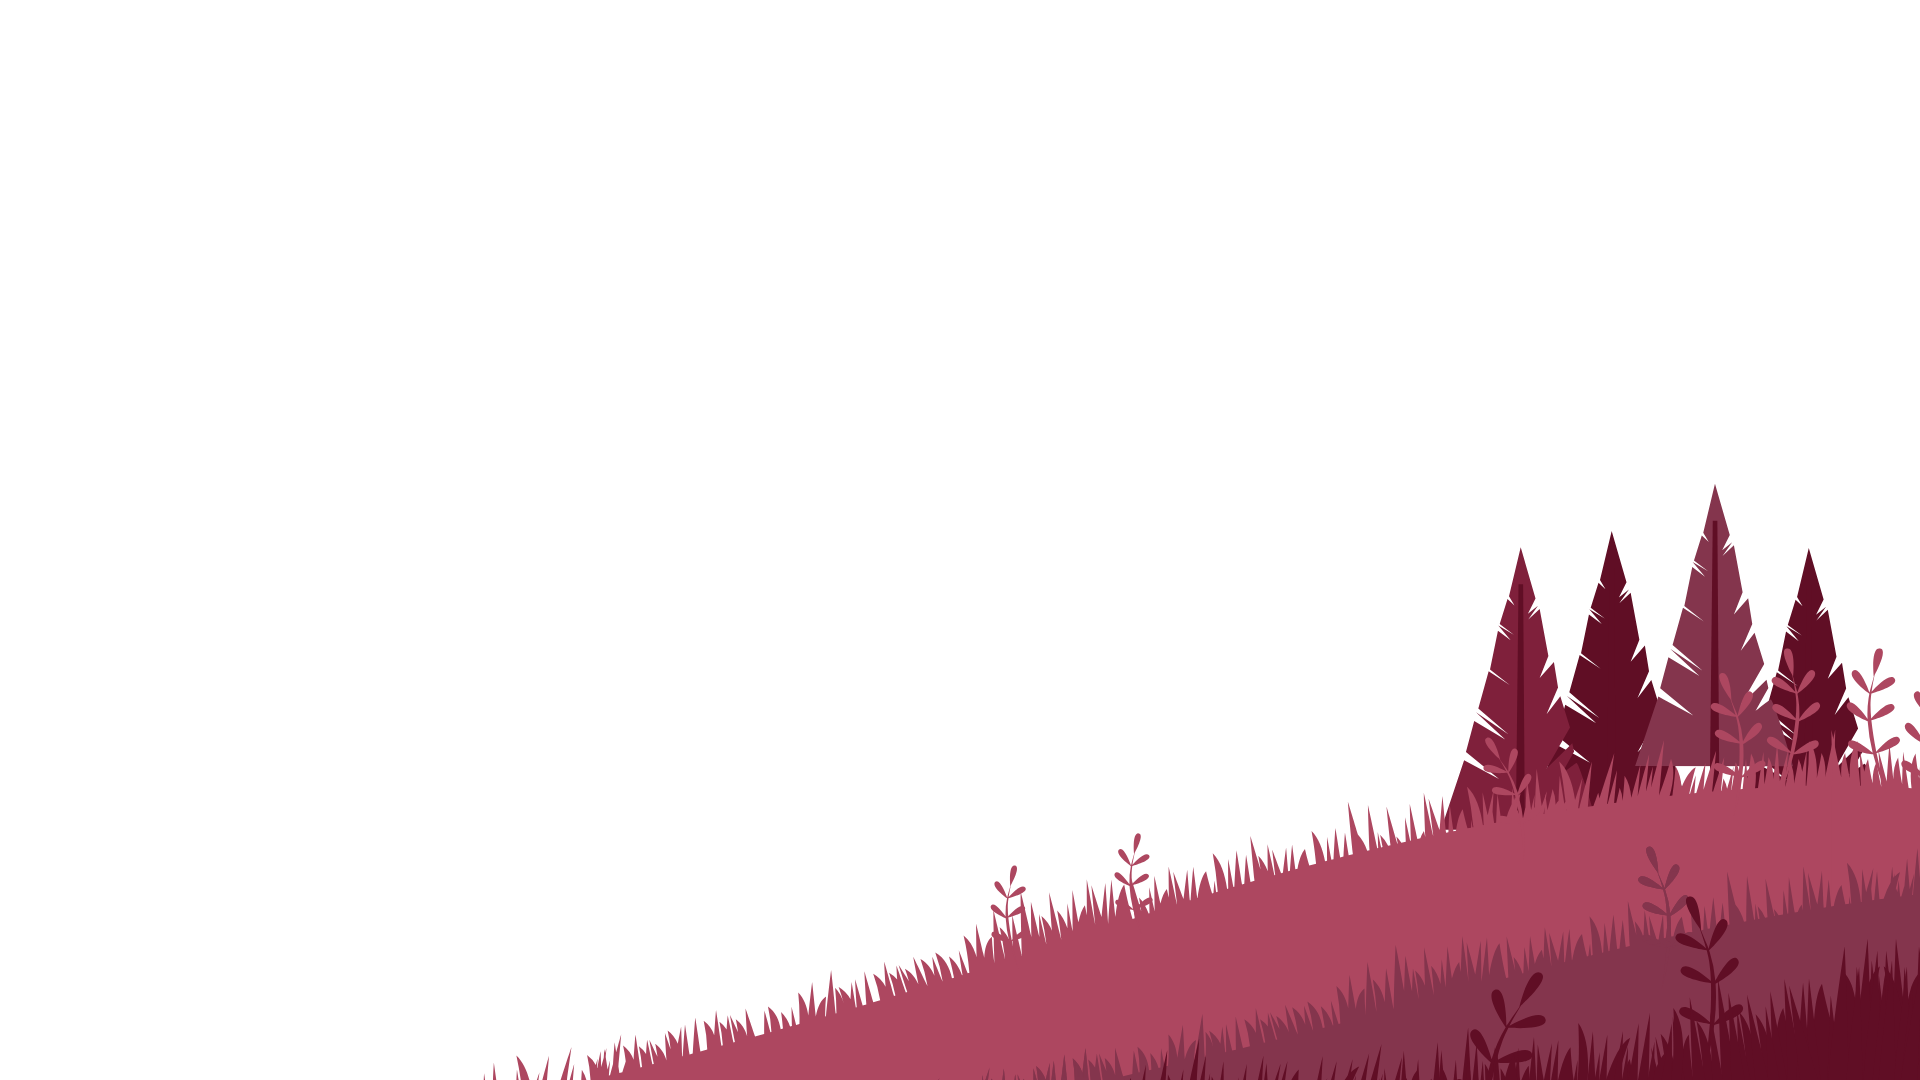
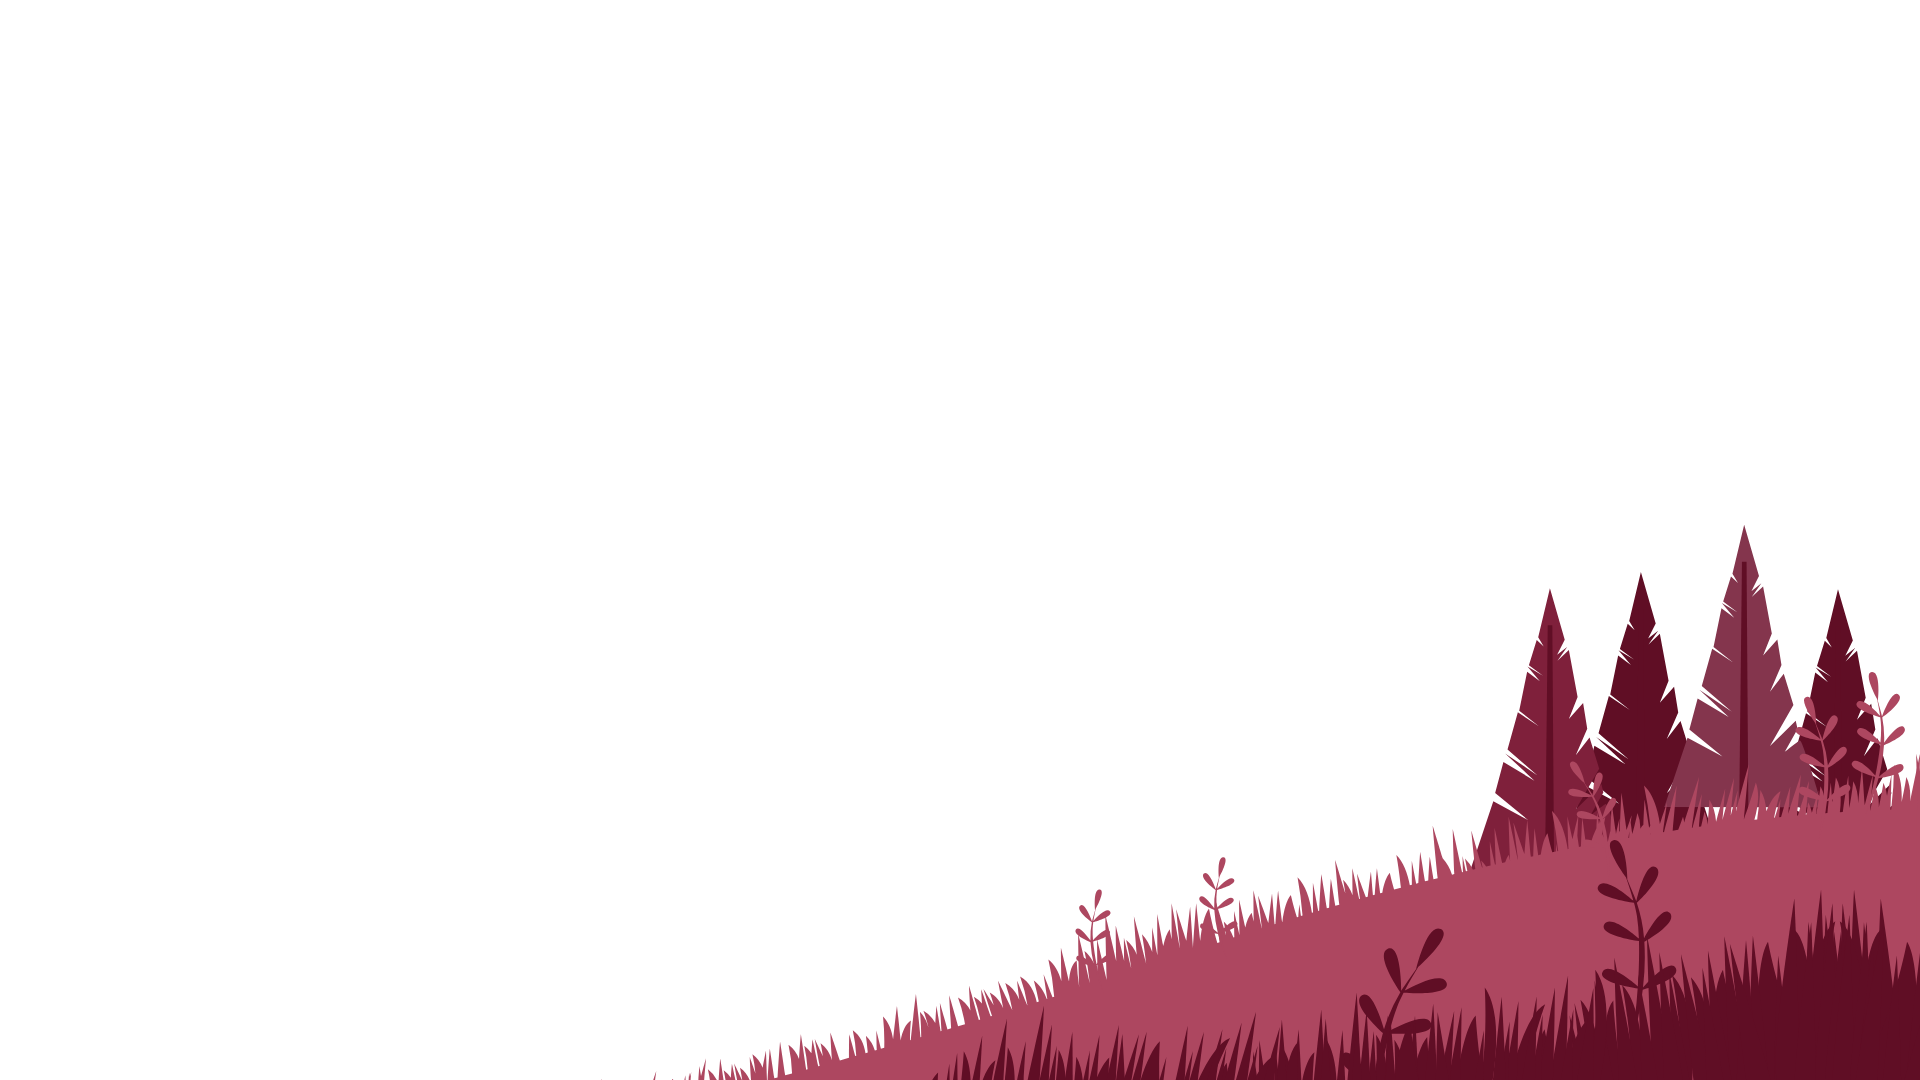
fixing body and parallax

Changed region(s): [[0.25, 0.4583, 1.0, 1.0]]

diff --git a/index.html b/index.html
@@ -6,6 +6,10 @@
     <title>Home Page</title>
     <link rel="icon" type="images/logo.png" href="/images/logo.png">
     <style>
+        body{
+            background-color: #620E26;
+            overflow-x: hidden;
+            }
       #backgrounds {
         background-image: url("images/bg.png");
         margin: 0;
@@ -23,14 +27,21 @@
 
       #Parallax {
           position: relative;
-          overflow: hidden;
+          overflow: hidden
+          
       }
 
-      #background, #moon, #mountains, #mountain1, #right-hills, #left-hills {
+      #background, #moon, #mountains, #mountain1{
           position: absolute;
           width: 100%;
       }
 
+      #right-hills, #left-hills 
+      {
+        position: absolute;
+        width: 100%;
+        height: 100%;
+      }
       #background {
           z-index: -4;
           height: 100%;
@@ -43,6 +54,7 @@
       }
       #moon, #right-hills, #left-hills {
           z-index: -3;
+;
       }
 
       #About {
@@ -51,7 +63,7 @@
 
       #about-main{
 
-        z-index: -5;
+        z-index: -4;
         height: 50% 
     
       }
